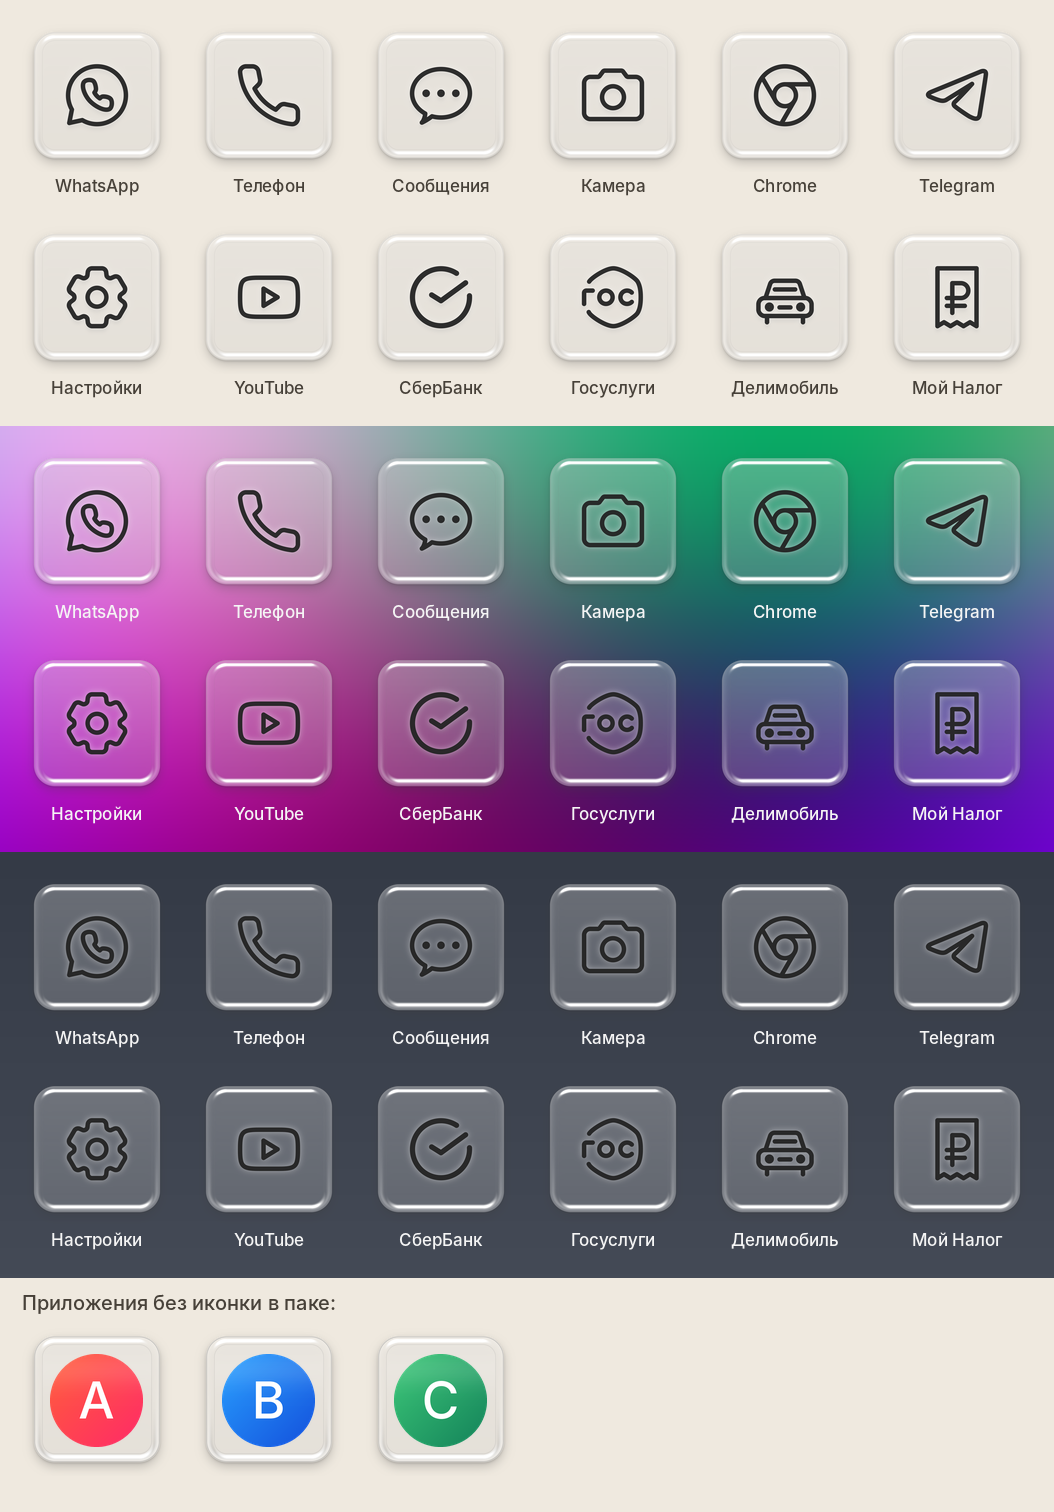
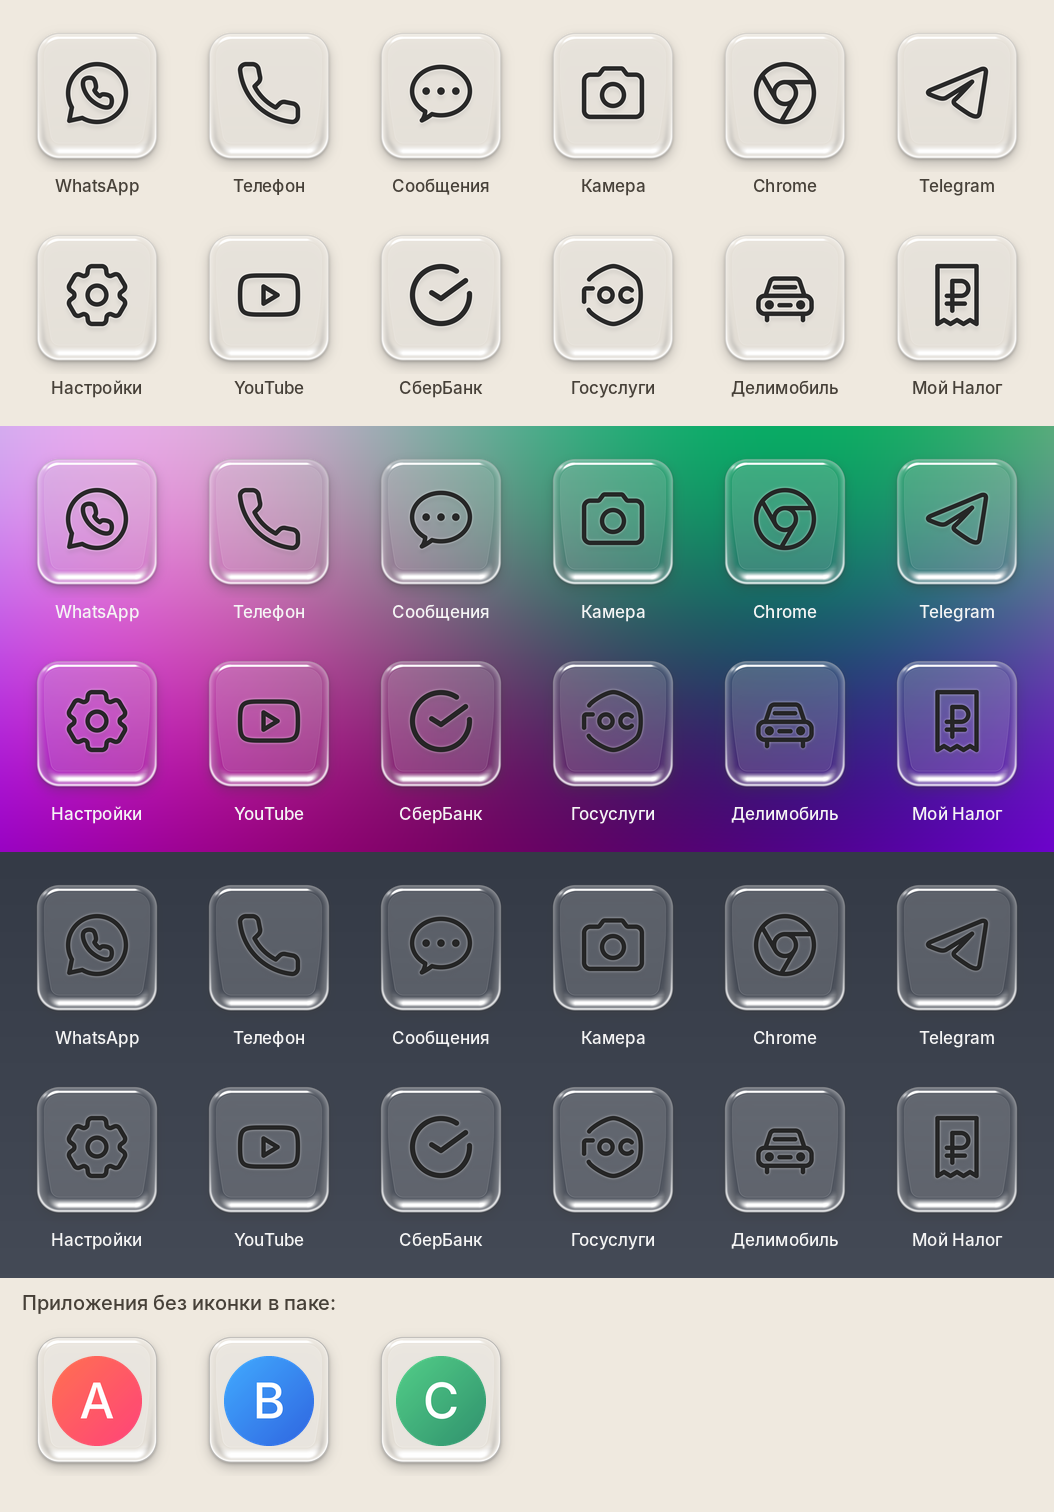
Glass: clear acrylic slab closer to the reference
Nearly clear body, milky towards a smooth rounded rim that is wider at
the bottom where the slab's thickness shows, refracted shadow and a
bright exit line along the bottom, crisp outer outline, faint inner
line, top/bottom speculars and a corner glint.

Claude-Session: https://claude.ai/code/session_01TTZygDqZcvFS4wFVRUaD4t

diff --git a/tools/style_glass.py b/tools/style_glass.py
@@ -1,106 +1,121 @@
-""""Glass" style: a thick, clear glass tile with a dark printed glyph.
+""""Glass" style: a thick, clear acrylic slab with a dark printed glyph.
 
-Modelled on the owner's reference (clear glass buttons and cards): the tile is
-mostly transparent, so the wallpaper shows through; a light frost keeps the
-glyph readable on dark wallpapers.  The rounded glass edge catches two bright
-rim highlights (top and bottom), has a thin grey refraction line at the outer
-edge and a faint one where the bevel meets the flat top; light focused by the
-glass brightens the inner bottom edge.  A soft grey shadow sits under it.
+Modelled on the owner's reference (clear glass buttons and search field):
+ - the slab is almost perfectly clear: the wallpaper shows through unchanged,
+   only a whisper of frost;
+ - it has thickness: seen slightly from above, the front face of the slab shows
+   as a band along the bottom (milky, with a bright line where light leaves the
+   glass and the shadow refracted into it);
+ - the polished edge reads as a thin double outline (outer silhouette and the
+   inner edge of the top face), with crisp specular lines and a glint in the
+   top-left corner;
+ - a soft shadow and a darker contact line on the wallpaper below.
 
 style(svg_text, name, out_size) -> PIL RGBA, plus back()/upon()/mask() for
-apps without an icon (their own icon appears under the glass).
+apps without an icon (their own icon sits under the glass).
 """
 
 from __future__ import annotations
 
 import numpy as np
 
-from styles import CX, CY, S, YY, Canvas, blur, cov, dome, glyph, light, sd_roundrect, shift
+from styles import CX, CY, S, XX, YY, Canvas, blur, cov, dome, glyph, light, sd_roundrect, shift
 
-TILE = dict(half=0.42, r=0.14, cx=CX, cy=CY - 0.012 * S)
-BEVEL = 0.056 * S
-INK = np.array([33, 33, 33])
+HALF, RADIUS = 0.40, 0.15
+LIFT = 0.036 * S            # visible thickness of the slab (front face height)
+TOP_CY = CY - 0.026 * S     # top face centre
+INK = np.array([30, 30, 30])
 WHITE = np.array([255, 255, 255])
+GREY = np.array([110, 110, 110])
 
 
-def _tile():
-    sd = sd_roundrect(TILE["half"], TILE["r"], TILE["cx"], TILE["cy"])
-    return sd, cov(sd)
+def _geometry():
+    sd_top = sd_roundrect(HALF, RADIUS, CX, TOP_CY)
+    sd_bot = sd_roundrect(HALF, RADIUS, CX, TOP_CY + LIFT)
+    sd_sil = np.maximum(sd_top, sd_bot)            # union: whole slab outline
+    return sd_top, sd_bot, sd_sil
 
 
-def _glass(c: Canvas, sd, tile, shadow=True, body=True):
-    if shadow:
-        drop_shadow(c, tile)
-    h = dome(sd, BEVEL, 0.04 * S)
-    _, spec_top, _ = light(h, L=(-0.25, -1.0, 1.1), power=110)
-    _, spec_bot, _ = light(h, L=(0.2, 1.0, 1.6), power=60)
-    edge = np.clip(1 - sd / BEVEL, 0, 1)                      # 1 at the rim, 0 on the flat top
-    if body:
-        t = np.clip((YY - (TILE["cy"] - TILE["half"] * S)) / (2 * TILE["half"] * S), 0, 1)
-        frost = (0.26 - 0.08 * t) + 0.12 * edge ** 2         # fresnel: edges look denser
-        c.over(WHITE, frost * tile)
-    # light focused by the glass along the inner bottom edge
-    lower = np.clip((YY - (TILE["cy"] - 0.15 * S)) / (0.55 * S), 0, 1) ** 2   # smooth, no seam
-    caustic = np.exp(-((sd - 0.022 * S) / (0.012 * S)) ** 2) * lower
-    c.over(WHITE, np.clip(caustic * 0.35, 0, 1) * tile)
-    # the shadow below, refracted up into the bottom edge of the glass
-    refr = np.exp(-((sd - 0.034 * S) / (0.014 * S)) ** 2) * lower ** 1.5
-    c.over(np.array([102, 102, 102]), np.clip(refr * 0.16, 0, 1) * tile)
-    # thin grey refraction line at the outer edge, faint one where the bevel ends
-    line_out = np.clip(1 - np.abs(sd - 0.0045 * S) / (0.0035 * S), 0, 1)
-    line_in = np.clip(1 - np.abs(sd - BEVEL) / (0.003 * S), 0, 1)
-    c.over(np.array([125, 125, 125]), np.clip(line_out * 0.32 + line_in * 0.12, 0, 1))
-    # bright rim highlights
-    c.over(WHITE, np.clip(spec_top * 3.0 + spec_bot * 1.6, 0, 1) * tile)
+def _line(sd, at, width):
+    return np.clip(1 - np.abs(sd - at) / width, 0, 1)
 
 
-def drop_shadow(c: Canvas, tile):
-    """Soft shadow on the wallpaper; almost none under the clear body itself."""
-    keep = 1 - 0.8 * tile
-    c.over(np.array([60, 60, 60]), blur(shift(tile, 0, 0.03 * S), 0.035 * S) * 0.26 * keep)
-    c.over(np.array([60, 60, 60]), blur(shift(tile, 0, 0.008 * S), 0.008 * S) * 0.2 * keep)
+def drop_shadow(c: Canvas, sil):
+    keep = 1 - 0.85 * sil                           # barely any under the clear slab
+    c.over(np.array([60, 60, 60]), blur(shift(sil, 0, 0.035 * S), 0.04 * S) * 0.28 * keep)
+    c.over(np.array([60, 60, 60]), blur(shift(sil, 0, 0.01 * S), 0.01 * S) * 0.28 * keep)
+
+
+def _slab(c: Canvas, frost=True, front=True):
+    """Draw the glass slab; returns (top face coverage, silhouette coverage)."""
+    sd_top, sd_bot, sd_sil = _geometry()
+    top, sil = cov(sd_top), cov(sd_sil)
+    # one smooth rounded edge; wider at the bottom, where the slab's thickness shows
+    lower = np.clip((YY - (TOP_CY - 0.1 * S)) / (HALF * S + LIFT), 0, 1) ** 1.6
+    W = 0.05 * S * (1 + 1.1 * lower)
+    e = np.clip(1 - sd_sil / W, 0, 1)               # 1 at the outline, 0 on the flat top
+    h = 0.05 * S * np.sqrt(np.clip(1 - e ** 2, 0, 1))
+
+    if frost:
+        # nearly clear middle, milky towards the rim (internal reflection / fresnel)
+        t = np.clip((YY - (TOP_CY - HALF * S)) / (2 * HALF * S), 0, 1)
+        c.over(WHITE, sil * ((0.09 - 0.04 * t) + 0.34 * e ** 1.6))
+    if front:
+        # shadow refracted into the lower rim, then the bright exit line at the very bottom
+        c.over(GREY, sil * lower * 0.2 * np.exp(-((e - 0.55) / 0.2) ** 2))
+        c.over(WHITE, sil * lower * 0.8 * np.exp(-((e - 0.9) / 0.07) ** 2))
+
+    # polished edge: crisp outer outline and a faint inner line where the flat top begins
+    c.over(np.array([120, 120, 120]), _line(sd_sil, 0.003 * S, 0.003 * S) * 0.5)
+    c.over(WHITE, np.clip(1 - np.abs(e - 0.02) / 0.03, 0, 1) * (sd_sil > 0) * 0.35)
+    _, spec_t, _ = light(h, L=(-0.3, -1.0, 1.0), power=110)
+    _, spec_b, _ = light(h, L=(0.15, 1.0, 1.5), power=70)
+    c.over(WHITE, np.clip(spec_t * 3.4 + spec_b * 1.2, 0, 1) * sil)
+    # glint in the top-left corner
+    gx, gy = CX - HALF * S + 0.075 * S, TOP_CY - HALF * S + 0.075 * S
+    glint = np.exp(-(((XX - gx) + (YY - gy)) / (0.09 * S)) ** 2 - (((XX - gx) - (YY - gy)) / (0.028 * S)) ** 2)
+    c.over(WHITE, glint * np.clip(1 - np.abs(e - 0.75) / 0.25, 0, 1) * sil * 0.85)
+    return top, sil
 
 
 def glass(svg, name, out=256):
-    sd, tile = _tile()
-    g = glyph(svg, 0.5, 0.95)
-    g = shift(g, 0, -0.012 * S)
+    _, _, sd_sil = _geometry()
+    sil = cov(sd_sil)
+    g = shift(glyph(svg, 0.5, 0.95), 0, -0.026 * S)
     c = Canvas()
-    drop_shadow(c, tile)
-    c.shadow(g, 0, 0.022 * S, 0.012 * S, 0.12, (42, 42, 42))   # glyph shadow on the wallpaper
-    _glass(c, sd, tile, shadow=False)
-    c.over(WHITE, np.clip(blur(g, 0.02 * S) * 0.5, 0, 1) * tile)  # frost halo behind the ink
-    c.over(INK, g * 0.94)
+    drop_shadow(c, sil)
+    c.shadow(g, 0, 0.03 * S, 0.012 * S, 0.10, (40, 40, 40))     # print shadow on the wallpaper
+    top, _ = _slab(c)
+    c.over(WHITE, np.clip(blur(g, 0.009 * S) * 0.55, 0, 1) * top)   # keeps ink readable on dark walls
+    c.over(INK, g * 0.95)
     return c.image(out)
 
 
 def back(out=256):
-    """iconback: the empty glass tile with its shadow."""
-    sd, tile = _tile()
+    """iconback: the empty slab with its shadow."""
+    _, _, sd_sil = _geometry()
     c = Canvas()
-    _glass(c, sd, tile, shadow=True, body=True)
+    drop_shadow(c, cov(sd_sil))
+    _slab(c)
     return c.image(out)
 
 
 def upon(out=256):
-    """iconupon: rim highlights and edge lines laid over the app icon (icon under glass)."""
-    sd, tile = _tile()
+    """iconupon: edges and highlights laid over the app icon (icon under the glass)."""
     c = Canvas()
-    _glass(c, sd, tile, shadow=False, body=False)
-    sheen = np.exp(-((YY - (TILE["cy"] - 0.2 * S)) / (0.12 * S)) ** 2) * cov(sd - BEVEL)
-    c.over(WHITE, sheen * 0.12)
+    _slab(c, frost=False, front=False)
     return c.image(out)
 
 
 def mask(out=256):
-    """iconmask: only cuts what lies outside the tile (launchers apply DST_OUT)."""
+    """iconmask: only cuts what lies outside the slab (launchers apply DST_OUT)."""
     from styles import finish
-    sd, tile = _tile()
+    _, _, sd_sil = _geometry()
     img = np.zeros((S, S, 4))
-    img[..., 3] = (1 - tile) * 255
+    img[..., 3] = (1 - cov(sd_sil)) * 255
     return finish(img, out)
 
 
-ICON_SCALE = 0.62
+ICON_SCALE = 0.6
 
 STYLES = {"glass": ("Glass", glass)}
